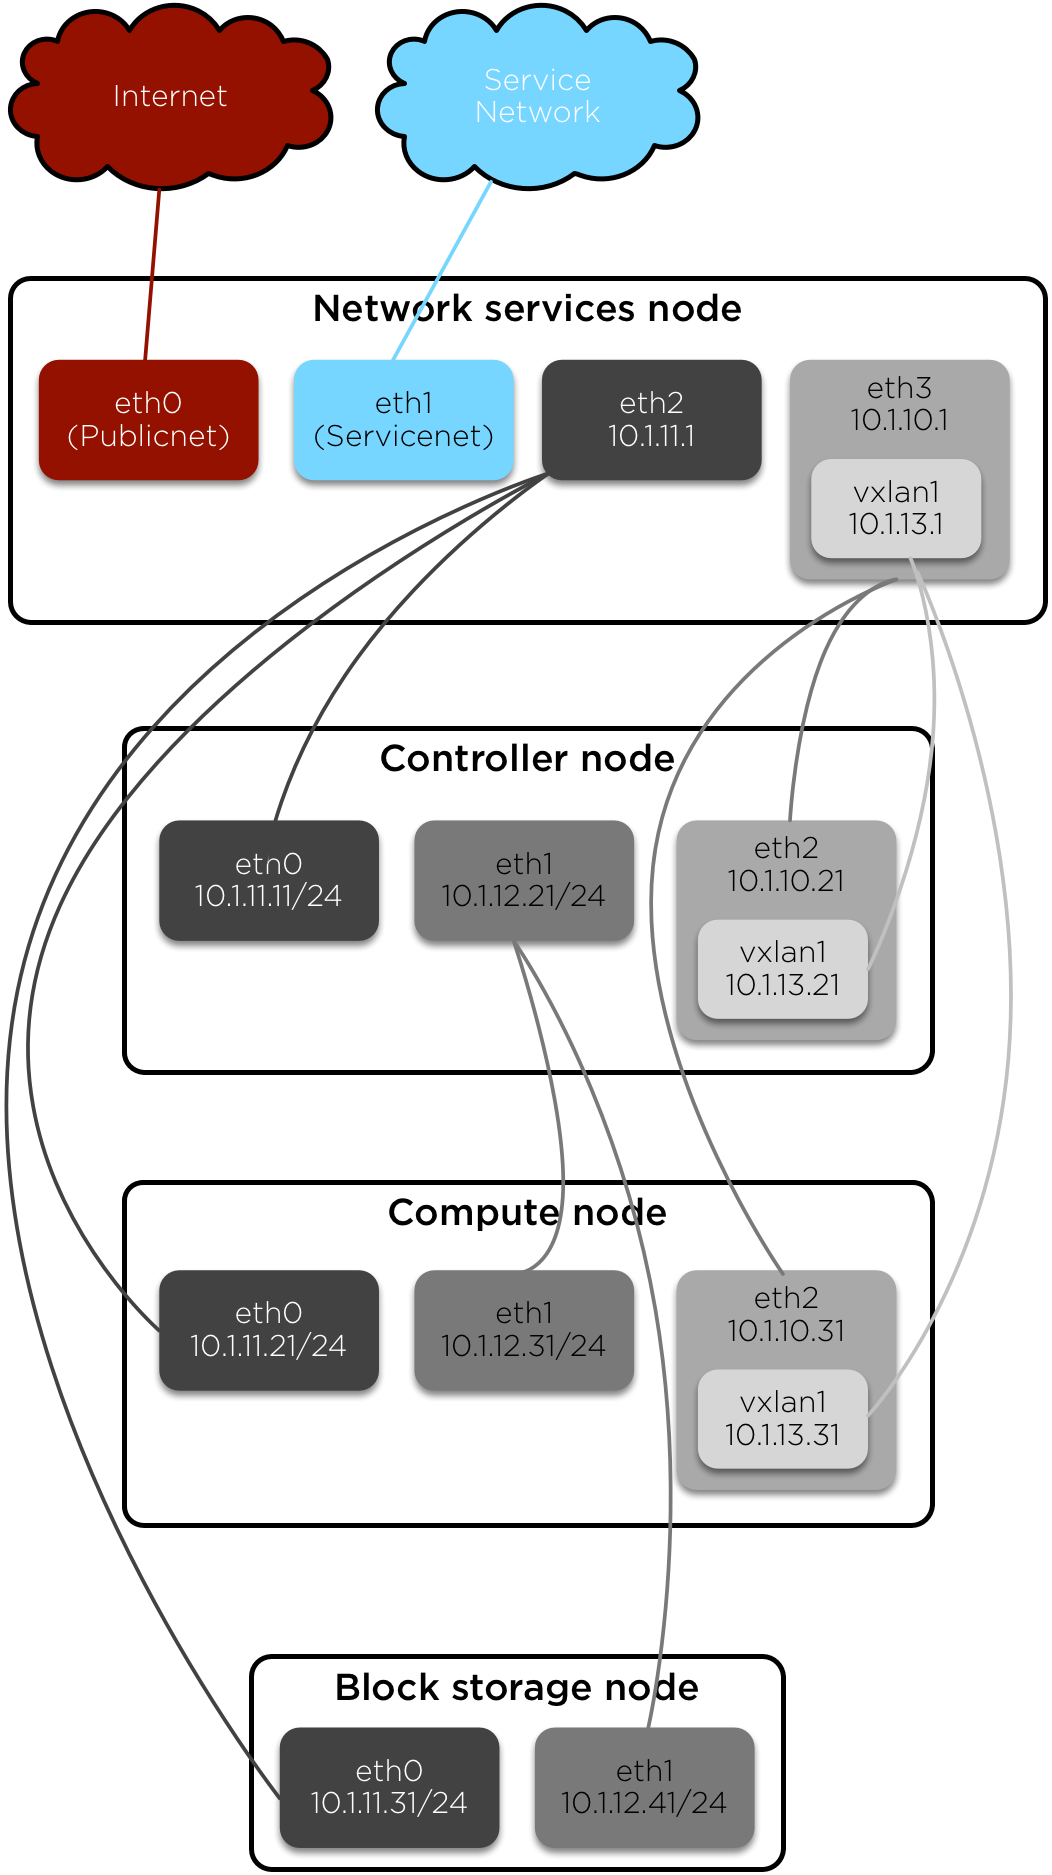
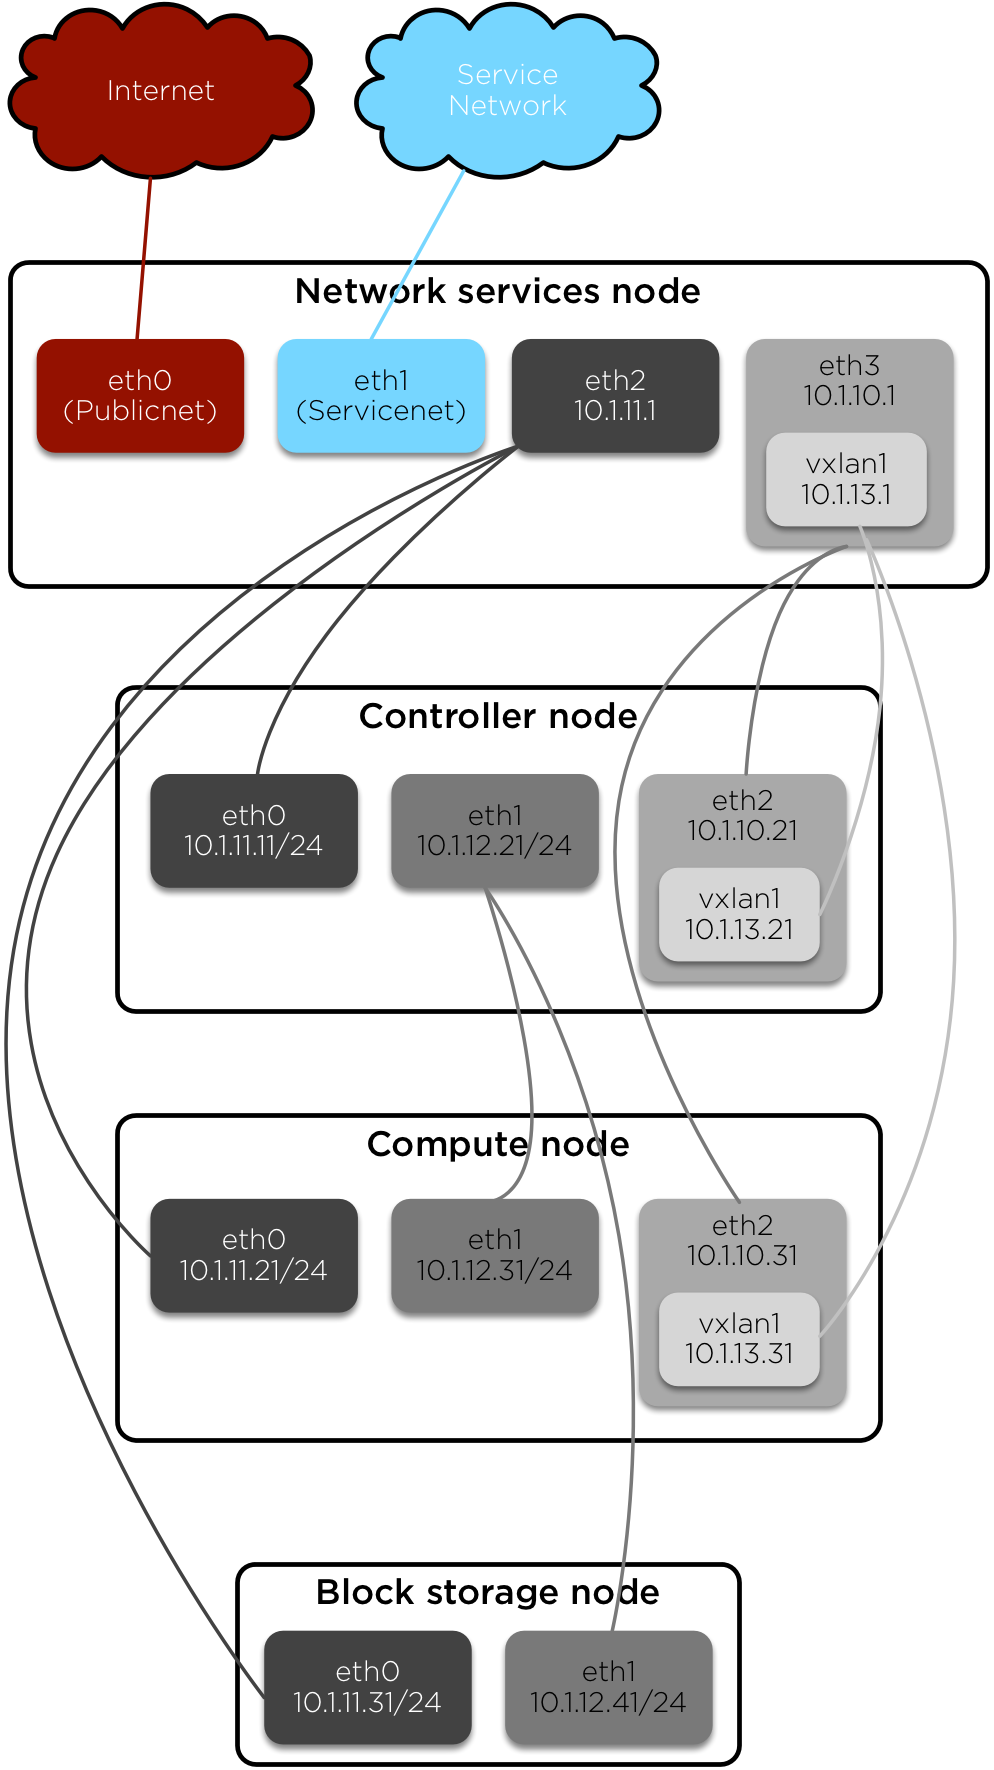
Edit Ubuntu cloud server instructions (#278)
* Edit Ubuntu cloud server instructions

Minor edits to the instructions and the arch diagram

* fix formatting

diff --git a/doc/rpc/HowTo-OpenStack-On-RAX-Cloud-Ubuntu.rst b/doc/rpc/HowTo-OpenStack-On-RAX-Cloud-Ubuntu.rst
@@ -112,7 +112,7 @@ Network services node (network-services)
 
    .. code-block:: console
 
-      ssh root@<hst-ns1_IP_ADDRESS>
+      ssh root@<network-services_IP_ADDRESS>
 
 #. Update node.
 
@@ -287,10 +287,10 @@ If you orchestrated server creation, skip to :ref:`configure network interfaces
    - Flavor: 8 GB General Purpose v1
    - Network: management
 
-#. In the Cloud Control Panel, add the *internal* network to the
+#. In the cloud control panel, add the **internal** network to the
    node.
 
-#. In the Cloud Control Panel, add the *external* network to the
+#. In the cloud control panel, add the **external** network to the
    node.
 
    .. note::
@@ -402,7 +402,9 @@ If you orchestrated server creation, skip to :ref:`configure network interfaces
      - 7.5 GB Compute v1 (supports a couple of Ubuntu/Fedora instances)
    - Network: management
 
-#. Add the *internal* network to the node.
+#. In the cloud control panel, add the **internal** network to the node.
+
+#. In the cloud control panel, add the **external** network to the node.
 
    .. note::
 
@@ -457,7 +459,7 @@ If you orchestrated server creation, skip to :ref:`configure network interfaces
 
    .. code-block:: ini
 
-      # hst-os1ctl1
+      # controller
       10.1.11.11 controller
 
       # compute
@@ -507,11 +509,11 @@ If you orchestrated server creation, skip to :ref:`configure network interfaces
 #. Create a cloud server, removing all networks except the
    **management** network.
 
-   - OS: CentOS 7 (PVHVM)
+   - OS: 16.04 (Xenial Xerus) PVHVM
    - 4 GB General Purpose v1
    - Network: management
 
-#. In the Cloud Control Panel, add the **internal** network to the
+#. In the cloud control panel, add the **internal** network to the
    node.
 
    .. note::
@@ -546,7 +548,7 @@ If you orchestrated server creation, skip to :ref:`configure network interfaces
           address 10.1.12.41
           netmask 255.255.255.0
 
-#. Edit the */etc/hosts* file:
+#. Edit the :file:`/etc/hosts` file:
 
    .. code-block:: ini
 
@@ -591,7 +593,7 @@ If you orchestrated server creation, skip to :ref:`configure network interfaces
    .. code-block:: console
 
       # apt-get install software-properties-common
-      # add-apt-repository cloud-archive:newton-proposed
+      # add-apt-repository cloud-archive:ocata
 
 #. Reboot the node:
 
@@ -599,8 +601,8 @@ If you orchestrated server creation, skip to :ref:`configure network interfaces
 
       # reboot
 
-Create block storage volume (block1)
-------------------------------------
+Create a block storage volume (block1)
+--------------------------------------
 
 If you orchestrated server creation, skip to :ref:`services`.
 
@@ -620,8 +622,8 @@ If you orchestrated server creation, skip to :ref:`services`.
 Install and configure OpenStack services
 ~~~~~~~~~~~~~~~~~~~~~~~~~~~~~~~~~~~~~~~~
 
-Use the `Newton Installation Tutorials and Guides
-<http://docs.openstack.org/newton/install-guide-ubuntu/>`_ with
+Use the `Installation Tutorials and Guides
+<http://docs.openstack.org/ocata/install-guide-ubuntu/>`_ with
 the following changes:
 
 - Configuring the basic environment on all nodes:
